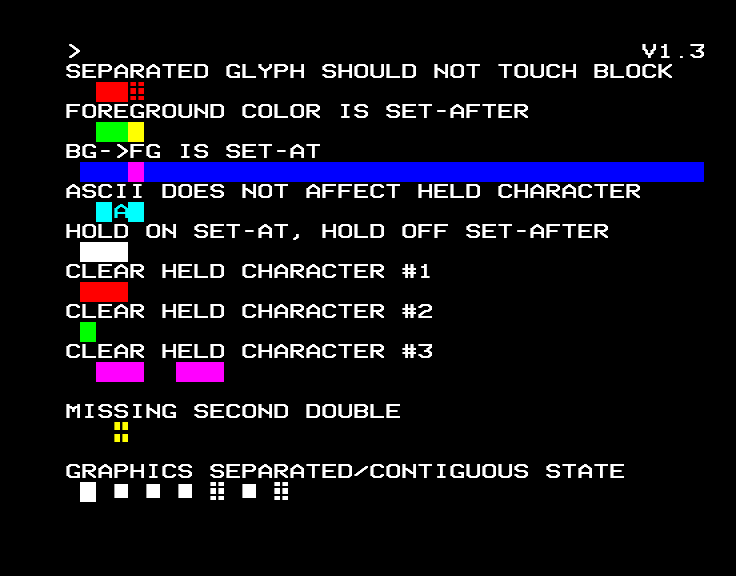
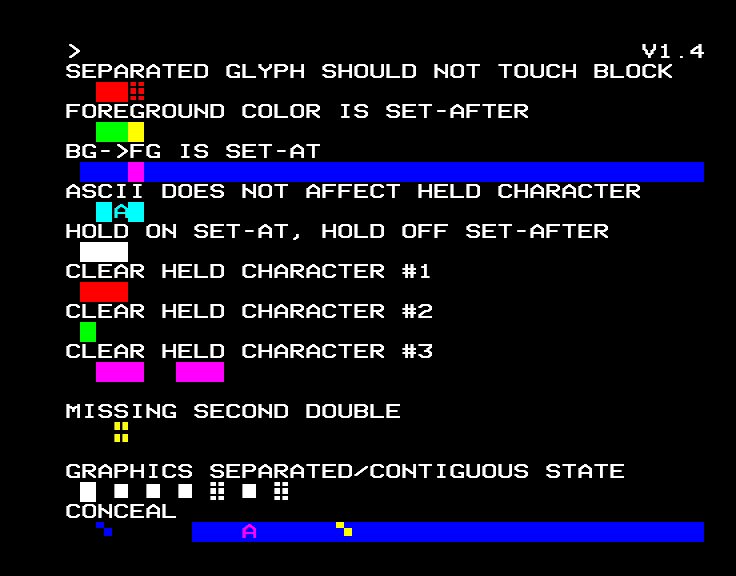
Update teletst to V1.4. Fix matters arising.
Fix #637.

Changed region(s): [[0.25, 0.9062, 0.9688, 0.9688], [0.0938, 0.875, 0.25, 0.9375], [0.9375, 0.0625, 0.9688, 0.0938]]

diff --git a/src/beeb/src/teletext.cpp b/src/beeb/src/teletext.cpp
@@ -372,7 +372,9 @@ void SAA5050::Byte(uint8_t value, uint8_t dispen) {
         case 0x18:
             // Conceal Display
             m_conceal = true;
-            goto display_non_control_char;
+            data0 = 0;
+            data1 = 0;
+            break;
 
         case 0x19:
             // Contiguous Graphics
@@ -420,17 +422,14 @@ void SAA5050::Byte(uint8_t value, uint8_t dispen) {
         data0 &= data0_mask;
         data1 &= data1_mask;
 
-        if (!m_hold) {
+        if (!m_hold && !m_conceal) {
             m_last_graphics_data0 = 0;
             m_last_graphics_data1 = 0;
         }
     } else {
-    display_non_control_char:;
-        //size_t offset=(value-32)*20+m_raster;
-        //ASSERT(offset<TELETEXT_CHARSET_SIZE);
         uint8_t glyph_raster = (m_raster + m_raster_offset) >> m_raster_shift;
 
-        if (glyph_raster < 20 && !m_conceal) {
+        if (glyph_raster < 20) {
             data0 = teletext_font[1][m_charset][value - 32][glyph_raster];
             data1 = teletext_font[1][m_charset][value - 32][glyph_raster + (1 >> m_raster_shift)];
         } else {
@@ -439,10 +438,13 @@ void SAA5050::Byte(uint8_t value, uint8_t dispen) {
         }
 
         if (value & 0x20 && m_charset != TeletextCharset_Alpha) {
-            if (!m_conceal) {
-                m_last_graphics_data0 = data0;
-                m_last_graphics_data1 = data1;
-            }
+            m_last_graphics_data0 = data0;
+            m_last_graphics_data1 = data1;
+        }
+
+        if (m_conceal) {
+            data0 = 0;
+            data1 = 0;
         }
 
         if (!m_text_visible) {
